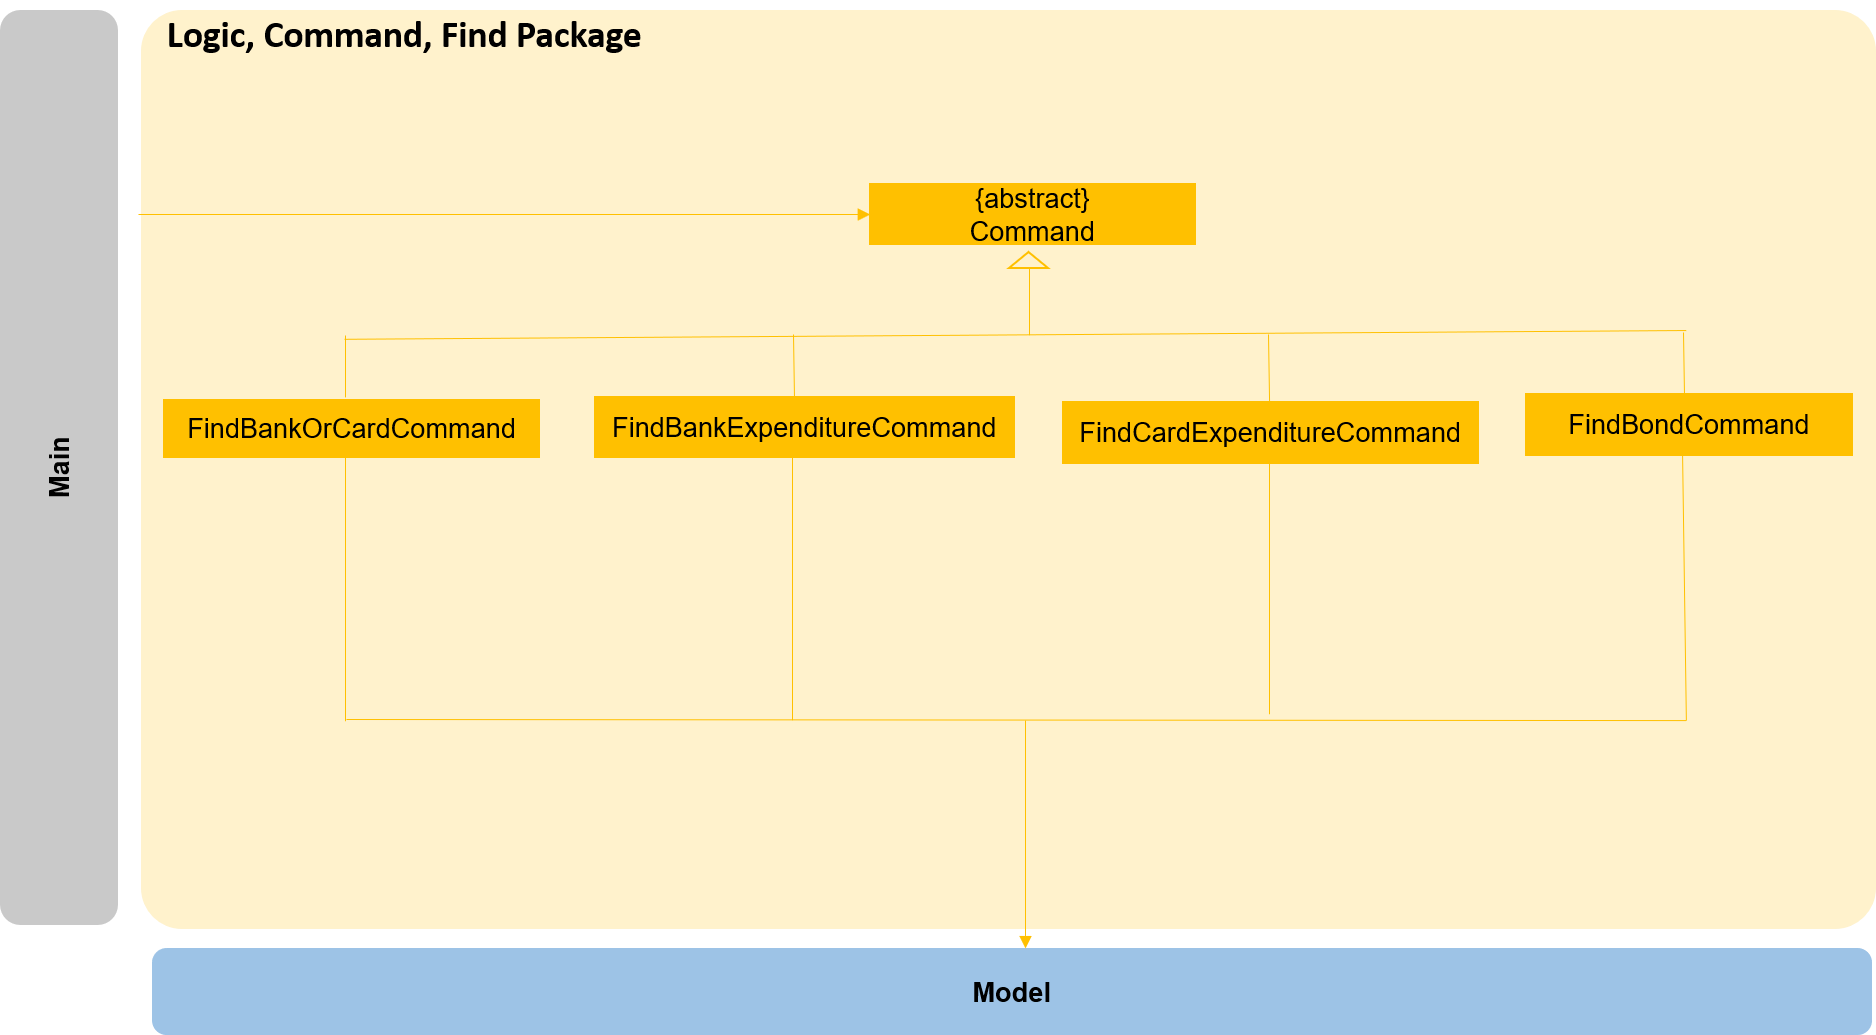
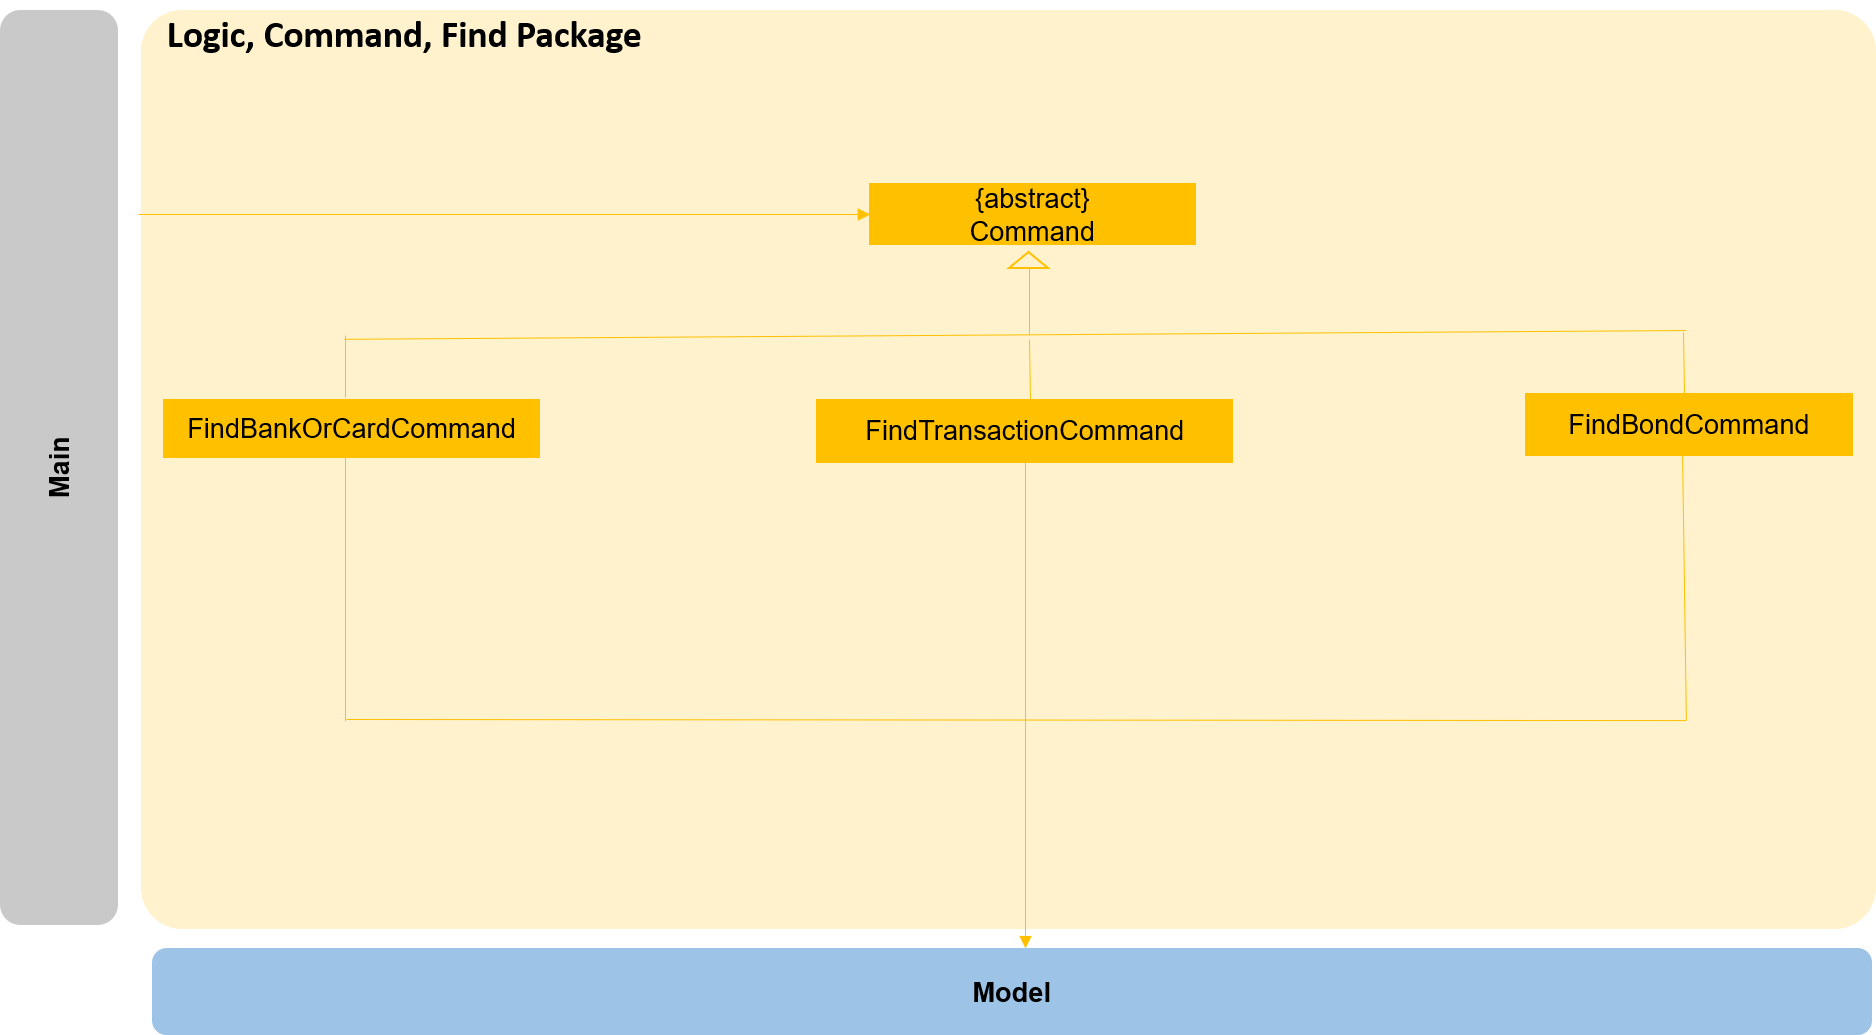
Rebuild pages at 9053dbb854ee36e835f5aa73a751b58e00b67ea3

Changed region(s): [[0.3092, 0.371, 0.8038, 0.4638]]

diff --git a/UserGuide.html b/UserGuide.html
@@ -21,8 +21,8 @@
 <ul class="sectlevel2">
 <li><a href="#general-commands">4.1. General Commands</a>
 <ul class="sectlevel3">
-<li><a href="#viewing-help-code-help-code">4.1.1. Viewing help: <code>/help</code></a></li>
-<li><a href="#undo-commands-code-undo-code">4.1.2. Undo Commands: <code>/undo</code></a></li>
+<li><a href="#viewing-help-code-help-code-not-available-in-v1-3">4.1.1. Viewing help: <code>/help</code> (Not Available in v1.3)</a></li>
+<li><a href="#undo-commands-code-undo-code-not-available-in-v1-3">4.1.2. Undo Commands: <code>/undo</code> (Not Available in v1.3)</a></li>
 <li><a href="#exiting-owlmoney-code-exit-code">4.1.3. Exiting OwlMoney : <code>/exit</code></a></li>
 </ul>
 </li>
@@ -139,7 +139,7 @@ interact with
 ease.</p>
 </div>
 <div class="paragraph">
-<p><strong>OwlMoney</strong> also comes with a minimalistic Graphical User Interface (GUI) that presents information in an organized
+<p><strong>OwlMoney</strong> also comes with a minimalistic Command Line Interface (CLI) that presents information in an organized
 manner.</p>
 </div>
 <div class="paragraph">
@@ -229,43 +229,19 @@ commands.</p>
 <div class="sect2">
 <h3 id="navigating-around-our-application"><a class="link" href="#navigating-around-our-application">2.2. Navigating Around Our Application</a></h3>
 <div class="paragraph">
-<p><strong>OwlMoney</strong> comes with a very clean and easy to use CLI and GUI, so don’t worry even if you are a new user!
+<p><strong>OwlMoney</strong> comes with a very clean and easy to use CLI , so don’t worry even if you are a new user!
 You can expect to navigate around our application with ease!</p>
 </div>
-<div id="GUI" class="imageblock">
+<div id="CLI" class="imageblock">
 <div class="content">
-<img src="images/UiLabelled.png" alt="UiLabelled" width="970">
+<img src="images/UiReadMe.png" alt="UiReadMe" width="970">
 </div>
-<div class="title">Figure 1. OwlMoney&#8217;s Graphical User Interface</div>
+<div class="title">Figure 1. OwlMoney&#8217;s Command Line Interface</div>
 </div>
 <div class="paragraph">
-<p><strong>OwlMoney</strong> has two main sections that you will need to know before you get started!
-The two main sections are explained below.</p>
+<p>As long as you have some experience using a command line interface, the moment you type your command and
+press <kbd>Enter</kbd>, the result appears immediately!</p>
 </div>
-<table class="tableblock frame-all grid-all spread">
-<colgroup>
-<col style="width: 33.3333%;">
-<col style="width: 33.3333%;">
-<col style="width: 33.3334%;">
-</colgroup>
-<tbody>
-<tr>
-<td class="tableblock halign-left valign-top"><p class="tableblock"><strong>Section</strong></p></td>
-<td class="tableblock halign-left valign-top"><p class="tableblock"><strong>Name</strong></p></td>
-<td class="tableblock halign-left valign-top"><p class="tableblock"><strong>Description</strong></p></td>
-</tr>
-<tr>
-<td class="tableblock halign-left valign-top"><p class="tableblock">1</p></td>
-<td class="tableblock halign-left valign-top"><p class="tableblock">Command Box</p></td>
-<td class="tableblock halign-left valign-top"><p class="tableblock">This is where you can enter and run commands.</p></td>
-</tr>
-<tr>
-<td class="tableblock halign-left valign-top"><p class="tableblock">2</p></td>
-<td class="tableblock halign-left valign-top"><p class="tableblock">Result Box</p></td>
-<td class="tableblock halign-left valign-top"><p class="tableblock">This provides you with information on whether a command is successful.</p></td>
-</tr>
-</tbody>
-</table>
 </div>
 </div>
 </div>
@@ -278,13 +254,25 @@ The two main sections are explained below.</p>
 <p>Ensure you have <strong>Java Version 11</strong> installed on your computer.</p>
 </li>
 <li>
-<p>Download the latest <code>OwlMoney.jar</code> <a href="https://github.com/AY1920S1-CS2113T-W17-3/main/releases/latest">here</a>.</p>
+<p>Download the latest <code>OwlMoney-v1.3.zip</code> <a href="https://github.com/AY1920S1-CS2113T-W17-3/main/releases/latest">here</a>.</p>
 </li>
 <li>
-<p>Copy the <code>OwlMoney.jar</code> file to the folder you want to use as the home folder for <strong>OwlMoney</strong>.</p>
+<p>Copy the <code>OwlMoney-v1.3.zip</code> file to the folder you want to use as the home folder for <strong>OwlMoney</strong>.</p>
 </li>
 <li>
-<p>Double-click the file to start the app. The GUI should appear in a few seconds.</p>
+<p>Extract all contents in the zip file into a target folder, including the <code>data</code> directory which should be <strong>empty</strong>.</p>
+</li>
+<li>
+<p>Open a <strong>Command Prompt</strong> or <strong>Powershell</strong>, navigate to the target folder and type <code>java -jar ./OwlMoney-v1.3.jar</code> to
+start <strong>OwlMoney</strong>.
+<strong>OwlMoney</strong> should appear in a few seconds.</p>
+</li>
+<li>
+<p>Maximise the screen to enjoy the best experience of <strong>OwlMoney</strong>.</p>
+</li>
+<li>
+<p>As this is your first time starting up this program, you have to create a profile by
+typing your <code>USERNAME</code> <strong>(e.g. John)</strong> when prompted and pressing <kbd>Enter</kbd></p>
 <div class="imageblock">
 <div class="content">
 <img src="images/Ui.png" alt="Ui" width="970">
@@ -293,12 +281,8 @@ The two main sections are explained below.</p>
 </div>
 </li>
 <li>
-<p>As this is your first time starting up this program, you have to create a profile by
-typing your <code>USERNAME</code> <strong>(e.g. John)</strong> when prompted and pressing <kbd>Enter</kbd></p>
-</li>
-<li>
 <p>You can now try entering commands in the <strong>command box</strong> and press <kbd>Enter</kbd> to execute it!<br>
-e.g. try typing <strong><code>help</code></strong> and pressing <kbd>Enter</kbd> will list down the commands available.</p>
+e.g. try typing <strong><code>/help</code> (Not available in v1.3)</strong> and pressing <kbd>Enter</kbd> will list down the commands available.</p>
 </li>
 <li>
 <p>Some example commands you can try:</p>
@@ -418,7 +402,7 @@ entertainment]</code> (with optional <code>category</code> parameter)</p>
 <div class="sect2">
 <h3 id="general-commands"><a class="link" href="#general-commands">4.1. General Commands</a></h3>
 <div class="sect3">
-<h4 id="viewing-help-code-help-code"><a class="link" href="#viewing-help-code-help-code">4.1.1. Viewing help: <code>/help</code></a></h4>
+<h4 id="viewing-help-code-help-code-not-available-in-v1-3"><a class="link" href="#viewing-help-code-help-code-not-available-in-v1-3">4.1.1. Viewing help: <code>/help</code> (Not Available in v1.3)</a></h4>
 <div class="paragraph">
 <p>Don&#8217;t worry if you are feeling lost! You can use this User Guide document to gain a better understanding of
 <strong>OwlMoney</strong>'s commands.</p>
@@ -442,7 +426,7 @@ entertainment]</code> (with optional <code>category</code> parameter)</p>
 </div>
 </div>
 <div class="sect3">
-<h4 id="undo-commands-code-undo-code"><a class="link" href="#undo-commands-code-undo-code">4.1.2. Undo Commands: <code>/undo</code></a></h4>
+<h4 id="undo-commands-code-undo-code-not-available-in-v1-3"><a class="link" href="#undo-commands-code-undo-code-not-available-in-v1-3">4.1.2. Undo Commands: <code>/undo</code> (Not Available in v1.3)</a></h4>
 <div class="paragraph">
 <p>Accidentally typed a wrong command? Don&#8217;t worry, simply type the <code>/undo</code> command and you will be back to where you
 started!</p>
@@ -2758,13 +2742,13 @@ paying for the coverage.</p>
 saved automatically in the <code>data</code> directory.</p>
 </div>
 <div class="paragraph">
-<p><strong>Q</strong>: Can I edit the data stored in the files of <code>data</code> directory?
+<p><strong>Q</strong>: Can I edit the data stored in the files of <code>data</code> directory?<br>
 <strong>A</strong>: Yes you <strong>MAY</strong> do it! However, you <strong>RISK</strong> corrupting <strong>YOUR DATA</strong> if you enter malformed inputs as <strong>OwlMoney</strong>
 <strong>TRUSTS</strong> the modifications you make to the files. This is <strong>NOT A BUG</strong> and is designed as it is. <strong>OwlMoney</strong> <strong>MAY NOT</strong>
 function optimally if malformed inputs are loaded in from corrupted save files.</p>
 </div>
 <div class="paragraph">
-<p><strong>Q</strong>: How do I edit the data stored in the files of <code>data</code> directory?
+<p><strong>Q</strong>: How do I edit the data stored in the files of <code>data</code> directory?<br>
 <strong>A</strong>: The data of the files are clearly labelled with column names in the <code>.csv</code> files and you can easily make sense of
 it! As long as you follow the constraints set out for each <code>PARAMETER</code> as mentioned in all previous sections, you
 should be fine!</p>
@@ -3141,4 +3125,4 @@ user</strong></p></td>
 </table>
 </div>
 </div>
-</div></div><div id="footer"><div class="container"><div id="footer-text">Last updated 2019-10-29 06:38:26 UTC</div></div></div></body></html>
+</div></div><div id="footer"><div class="container"><div id="footer-text">Last updated 2019-10-29 15:49:27 UTC</div></div></div></body></html>

diff --git a/index.html b/index.html
@@ -2,9 +2,12 @@
 <link rel="stylesheet" href="https://cdnjs.cloudflare.com/ajax/libs/font-awesome/4.5.0/css/font-awesome.min.css">
 <link rel="stylesheet" href="stylesheets/coderay-asciidoctor.css"></head><body class="article"><div id="site-header"><nav class="navbar navbar-light bg-light"><div class="container"><a class="navbar-brand" href="index.html">OwlMoney</a><ul class="navbar-nav"><li class="nav-item"><a class="nav-link" href="UserGuide.html">User Guide</a></li><li class="nav-item"><a class="nav-link" href="DeveloperGuide.html">Developer Guide</a></li><li class="nav-item"><a class="nav-link" href="AboutUs.html">About Us</a></li><li class="nav-item"><a class="nav-link" href="ContactUs.html">Contact Us</a></li><li class="navitem"><a class="nav-link" href="https://github.com/AY1920S1-CS2113T-W17-3/main"><span class="fa fa-github fa-lg" aria-hidden="true"></span>&nbsp;View on GitHub</a></li></ul></div></nav></div><div id="header"><h1>OwlMoney</h1></div><div id="content"><div id="preamble">
 <div class="sectionbody">
+<div class="paragraph">
+<p><span class="image"><a class="image" href="https://travis-ci.org/AY1920S1-CS2113T-W17-3/main"><img src="https://travis-ci.org/AY1920S1-CS2113T-W17-3/main.svg?branch=master" alt="Build Status"></a></span></p>
+</div>
 <div class="imageblock">
 <div class="content">
-<img src="images/Ui.png" alt="Ui" width="970">
+<img src="images/UiReadMe.png" alt="UiReadMe" width="970">
 </div>
 </div>
 <div class="ulist">
@@ -79,4 +82,4 @@ created by <a href="https://github.com/se-edu/">SE-EDU initiative</a></p>
 <div class="sectionbody">
 
 </div>
-</div></div><div id="footer"><div class="container"><div id="footer-text">Last updated 2019-10-29 06:38:26 UTC</div></div></div></body></html>
+</div></div><div id="footer"><div class="container"><div id="footer-text">Last updated 2019-10-29 15:49:28 UTC</div></div></div></body></html>

diff --git a/DeveloperGuide.html b/DeveloperGuide.html
@@ -593,10 +593,10 @@ parameters</strong> before calling the <code>Profile</code> class in <code>Model
 <p>Bonds</p>
 </li>
 <li>
-<p>Card expenditure</p>
+<p>Card transactions</p>
 </li>
 <li>
-<p>Bank expenditure</p>
+<p>Bank transactions</p>
 </li>
 </ul>
 </div>
@@ -668,7 +668,7 @@ transactions <strong>will be deleted</strong> along with it given that it has a 
 <div class="sect2">
 <h3 id="storage-component"><a class="link" href="#storage-component">3.5. Storage Component</a></h3>
 <div class="paragraph">
-<p>To be added.</p>
+<p>To be added in v1.4.</p>
 </div>
 </div>
 <div class="sect2">
@@ -1524,6 +1524,12 @@ on our projects.</p>
 </div>
 <div class="paragraph">
 <p>See <a href="UsingCoveralls.html">UsingCoveralls.adoc</a> for more details.</p>
+</div>
+<div class="paragraph">
+<p>We use <a href="https://codecov.io/">Codecov</a> as well to provide an alternative perspective from coveralls.</p>
+</div>
+<div class="paragraph">
+<p>See <a href="https://docs.codecov.io/docs">Codecov Quick Start</a> for more details.</p>
 </div>
 </div>
 <div class="sect2">
@@ -4303,4 +4309,4 @@ specific bank account, credit card or bonds with ease.</p></td>
 <div class="sectionbody">
 
 </div>
-</div></div><div id="footer"><div class="container"><div id="footer-text">Last updated 2019-10-29 06:38:26 UTC</div></div></div></body></html>
+</div></div><div id="footer"><div class="container"><div id="footer-text">Last updated 2019-10-29 15:49:27 UTC</div></div></div></body></html>

diff --git a/ContactUs.html b/ContactUs.html
@@ -10,4 +10,4 @@ if you noticed bugs or have suggestions on how to improve.</p>
 <p><strong>Contributing</strong> : We welcome pull requests. Follow the process described <a href="https://github.com/oss-generic/process">here</a></p>
 </li>
 </ul>
-</div></div><div id="footer"><div class="container"><div id="footer-text">Last updated 2019-10-29 06:38:26 UTC</div></div></div></body></html>
+</div></div><div id="footer"><div class="container"><div id="footer-text">Last updated 2019-10-29 15:49:27 UTC</div></div></div></body></html>

diff --git a/UsingGradle.html b/UsingGradle.html
@@ -225,4 +225,4 @@ See <code>build.gradle</code> &#8594; <code>allprojects</code> &#8594; <code>dep
 </ul>
 </div>
 </div>
-</div></div><div id="footer"><div class="container"><div id="footer-text">Last updated 2019-10-29 06:38:26 UTC</div></div></div></body></html>
+</div></div><div id="footer"><div class="container"><div id="footer-text">Last updated 2019-10-29 15:49:27 UTC</div></div></div></body></html>

diff --git a/UsingNetlify.html b/UsingNetlify.html
@@ -123,4 +123,4 @@ The publish directory is the directory in which the built HTML documentation res
 </ol>
 </div>
 </div>
-</div></div><div id="footer"><div class="container"><div id="footer-text">Last updated 2019-10-29 06:38:26 UTC</div></div></div></body></html>
+</div></div><div id="footer"><div class="container"><div id="footer-text">Last updated 2019-10-29 15:49:27 UTC</div></div></div></body></html>

diff --git a/UsingCoveralls.html b/UsingCoveralls.html
@@ -96,4 +96,4 @@ If you have not set up Travis CI, see <a href="UsingTravis.html">UsingTravis.ado
 </ol>
 </div>
 </div>
-</div></div><div id="footer"><div class="container"><div id="footer-text">Last updated 2019-10-29 06:38:26 UTC</div></div></div></body></html>
+</div></div><div id="footer"><div class="container"><div id="footer-text">Last updated 2019-10-29 15:49:27 UTC</div></div></div></body></html>

diff --git a/UsingTravis.html b/UsingTravis.html
@@ -278,4 +278,4 @@ Suggested change: Remove the codacy badge from <code>README</code>.</p>
 </div>
 </div>
 </div>
-</div></div><div id="footer"><div class="container"><div id="footer-text">Last updated 2019-10-29 06:38:26 UTC</div></div></div></body></html>
+</div></div><div id="footer"><div class="container"><div id="footer-text">Last updated 2019-10-29 15:49:27 UTC</div></div></div></body></html>

diff --git a/AboutUs.html b/AboutUs.html
@@ -92,4 +92,4 @@ Responsibilities: Model + Ui</p>
 <hr>
 </div>
 </div>
-</div></div><div id="footer"><div class="container"><div id="footer-text">Last updated 2019-10-29 06:38:26 UTC</div></div></div></body></html>
+</div></div><div id="footer"><div class="container"><div id="footer-text">Last updated 2019-10-29 15:49:27 UTC</div></div></div></body></html>

diff --git a/team/mong-nus.html b/team/mong-nus.html
@@ -7,4 +7,4 @@
 <p>Hello there I am Zheng Wei.</p>
 </div>
 </div>
-</div></div><div id="footer"><div class="container"><div id="footer-text">Last updated 2019-10-29 06:38:26 UTC</div></div></div></body></html>
+</div></div><div id="footer"><div class="container"><div id="footer-text">Last updated 2019-10-29 15:49:28 UTC</div></div></div></body></html>

diff --git a/team/terencetanwt.html b/team/terencetanwt.html
@@ -7,4 +7,4 @@
 <p>Hello there I am Terence.</p>
 </div>
 </div>
-</div></div><div id="footer"><div class="container"><div id="footer-text">Last updated 2019-10-29 06:38:26 UTC</div></div></div></body></html>
+</div></div><div id="footer"><div class="container"><div id="footer-text">Last updated 2019-10-29 15:49:28 UTC</div></div></div></body></html>

diff --git a/team/valerietyj.html b/team/valerietyj.html
@@ -7,4 +7,4 @@
 <p>Hello there I am Valerie.</p>
 </div>
 </div>
-</div></div><div id="footer"><div class="container"><div id="footer-text">Last updated 2019-10-29 06:38:26 UTC</div></div></div></body></html>
+</div></div><div id="footer"><div class="container"><div id="footer-text">Last updated 2019-10-29 15:49:28 UTC</div></div></div></body></html>
